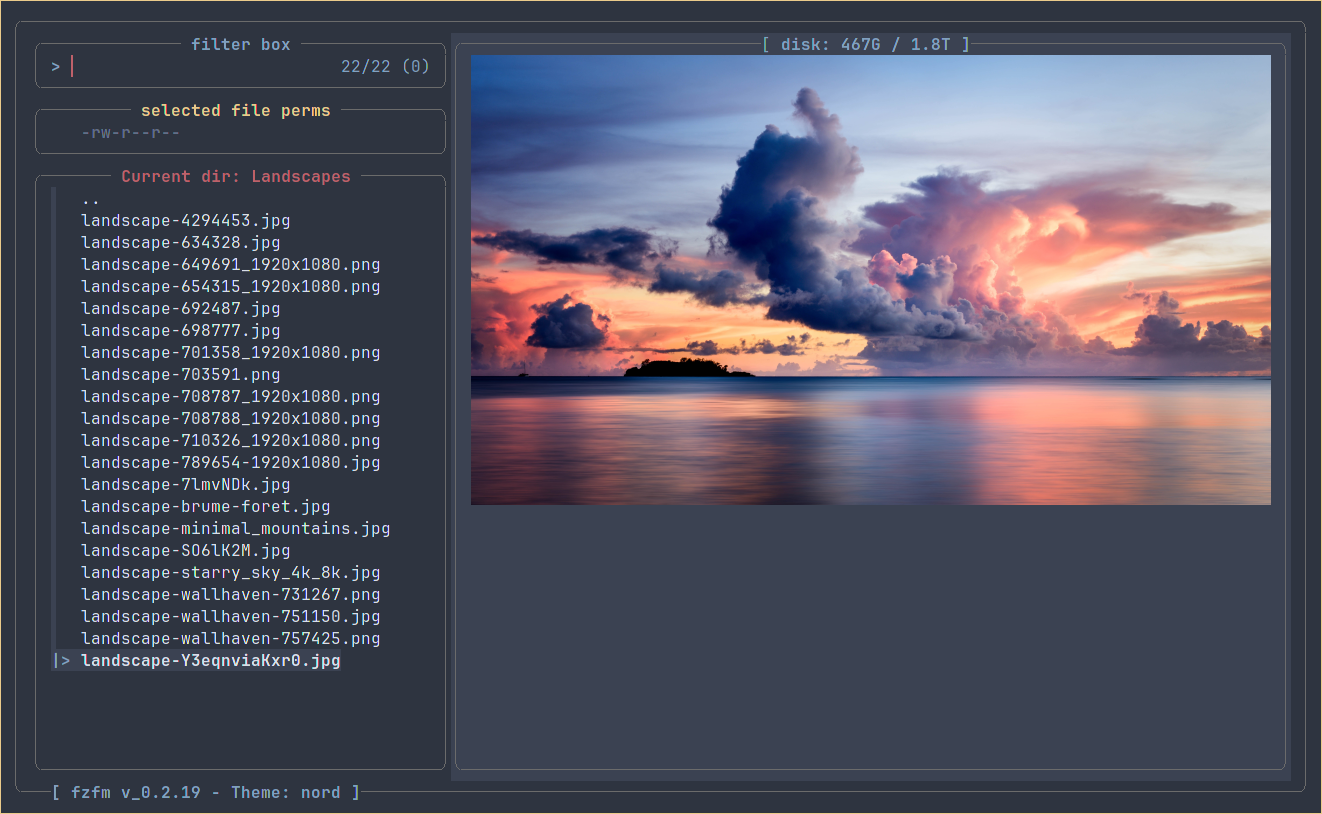
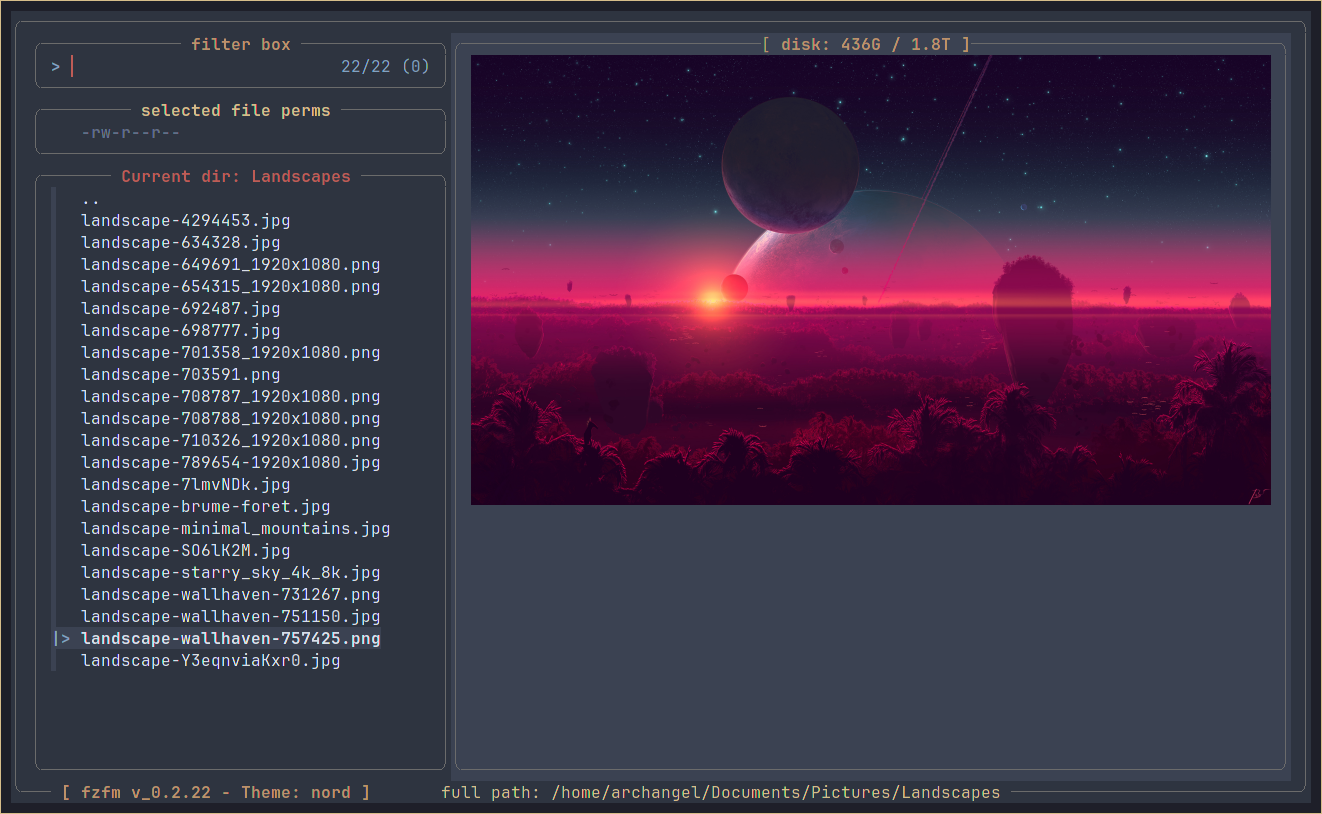
version 0.2.22

diff --git a/README.md b/README.md
@@ -12,7 +12,7 @@ A simple customizable fzf file manager for Linux with basic options.
   </tr>
   <tr>
     <td width="50%">
-      <img src="https://github.com/archusXIV/fzfm/blob/main/screenshots/fzfm_v0.2.19.png" />
+      <img src="https://github.com/archusXIV/fzfm/blob/main/screenshots/fzfm_v0.2.22.png" />
     </td>
     <td width="50%">
       <img src="https://github.com/archusXIV/fzfm/blob/main/screenshots/fzfm_image.png" />
